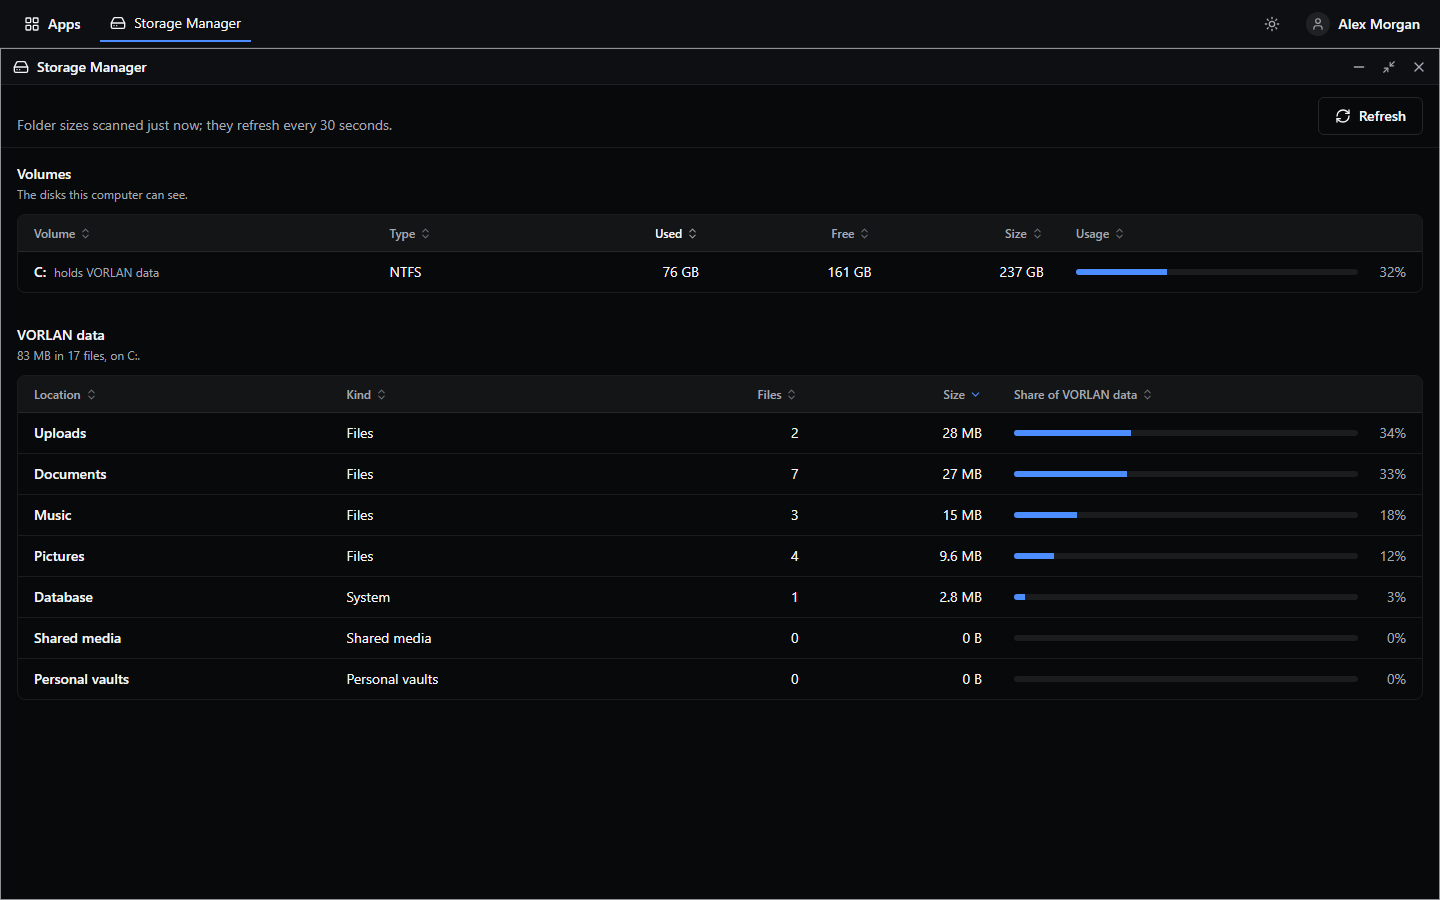
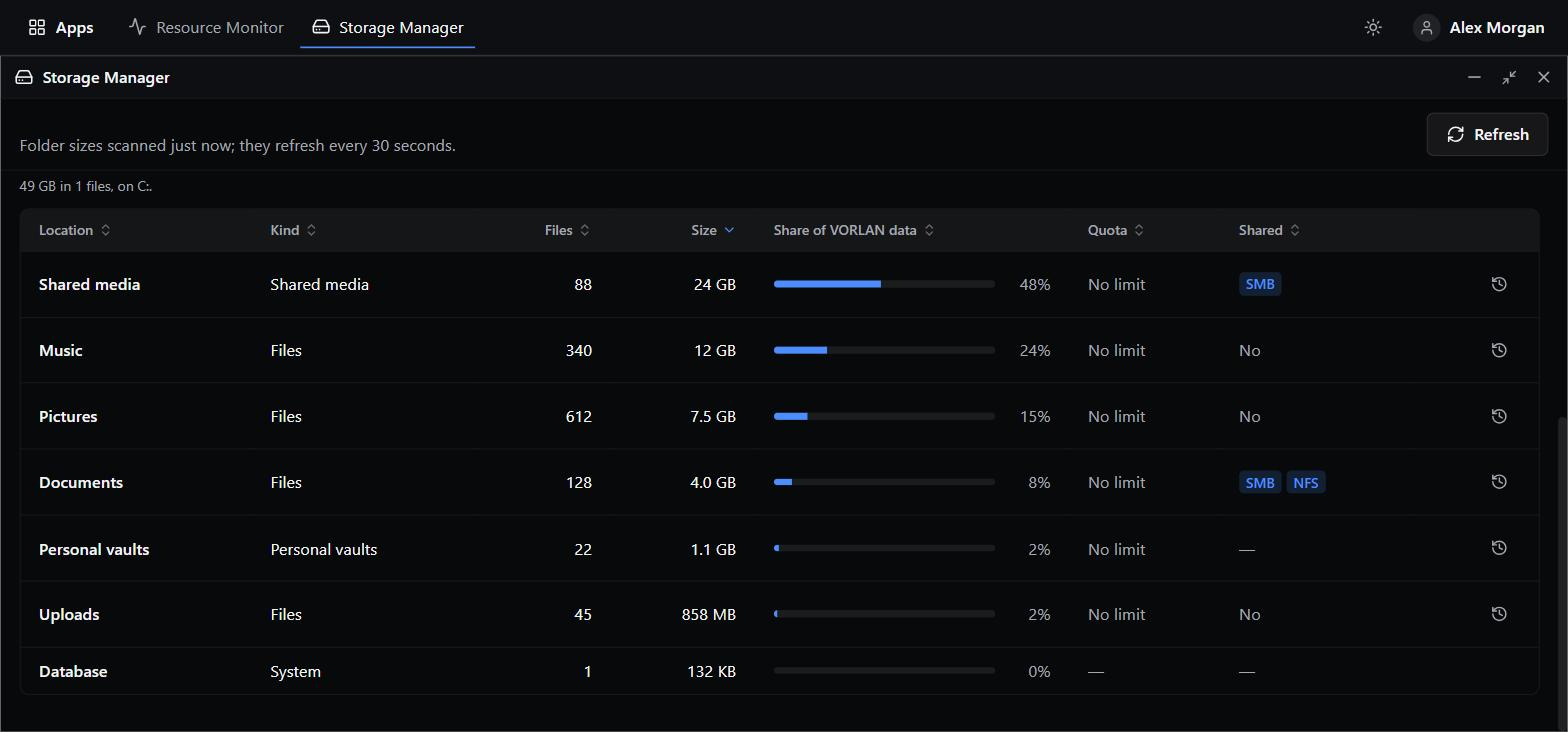
README: refresh the screenshot gallery for App Store, Storage Manager sharing and Services
Adds screenshots for the App Store catalog/installed views, the new SMB/NFS
sharing toggles in a dataset's settings, and the Services window's
restart/stop controls - all from a throwaway demo instance with fake data
and a sanitized hostname, same as the rest of the gallery.

diff --git a/README.md b/README.md
@@ -95,7 +95,11 @@ Administrators land on a desktop. Every tool is a window: open several, arrange 
 <table>
   <tr>
     <td width="50%"><img src="docs/screenshots/resource-monitor.png" alt="Resource Monitor showing 24 hours of processor, memory and network charts"><br><b>Resource Monitor.</b> Live charts for processor, memory, network and disk, or the last hour, 6 hours, 24 hours, 7 days or 30 days. Readable with the keyboard, with a spoken summary for screen readers.</td>
-    <td width="50%"><img src="docs/screenshots/storage-manager.png" alt="Storage Manager listing volumes and how much space each VORLAN folder uses"><br><b>Storage Manager.</b> Every volume the computer can see, and how much of VORLAN's data lives in Documents, Uploads, Pictures, Music, shared media, personal vaults and the database.</td>
+    <td width="50%"><img src="docs/screenshots/storage-manager.png" alt="Storage Manager listing volumes, pool disks, per-dataset quotas and which datasets are shared over SMB or NFS"><br><b>Storage Manager.</b> Volumes, the auto-formed pool, and per-dataset quotas, snapshots and a <b>Shared</b> column showing which datasets are exported over SMB or NFS.</td>
+  </tr>
+  <tr>
+    <td width="50%"><img src="docs/screenshots/storage-sharing.png" alt="A dataset's Network sharing panel with SMB and NFS toggles on and the exact connection address shown"><br><b>Turn on a network share.</b> One switch per protocol, right in the dataset's own settings - the exact <code>\\host\share</code> or <code>mount host:/path</code> to use appears the moment it's on.</td>
+    <td width="50%"><img src="docs/screenshots/app-store.png" alt="App Store catalog with Nextcloud, Pi-hole, Minecraft server and Jellyfin, each with an Install button"><br><b>App Store.</b> Install real self-hosted apps as Docker containers - a small curated catalog, or any image you point it at.</td>
   </tr>
   <tr>
     <td width="50%"><img src="docs/screenshots/control-panel.png" alt="Control Panel accounts list"><br><b>Control Panel: accounts.</b> Create accounts, change roles, reset passwords, sign an account out everywhere, or delete it with a typed confirmation.</td>
@@ -107,11 +111,14 @@ Administrators land on a desktop. Every tool is a window: open several, arrange 
   </tr>
 </table>
 
-The desktop also has **Task Manager** (running and finished tasks such as file copies), **Services** (API, database, metrics sampler and the assistant, with health and counters) and **Network** (interfaces, live traffic and the addresses other devices should use).
+The desktop also has **Task Manager** (running and finished tasks such as file copies) and **Network** (interfaces, live traffic and the addresses other devices should use). **Services** shows every core service's health, including VORLAN's own - restartable or stoppable right there on an install that runs it as a background service.
 
-<p align="center">
-  <img src="docs/screenshots/network.png" alt="Network window listing the HTTPS address other devices should open" width="720">
-</p>
+<table>
+  <tr>
+    <td width="50%"><img src="docs/screenshots/services.png" alt="Services window showing the VORLAN API managed by systemd, with Restart and Stop buttons"><br><b>Services.</b> State, uptime and request counters for every core service - Restart/Stop VORLAN itself without a terminal.</td>
+    <td width="50%"><img src="docs/screenshots/network.png" alt="Network window listing the HTTPS address other devices should open"><br><b>Network.</b> Interfaces, live traffic, and the address to type into another device's browser.</td>
+  </tr>
+</table>
 
 ### Everyone else
 
